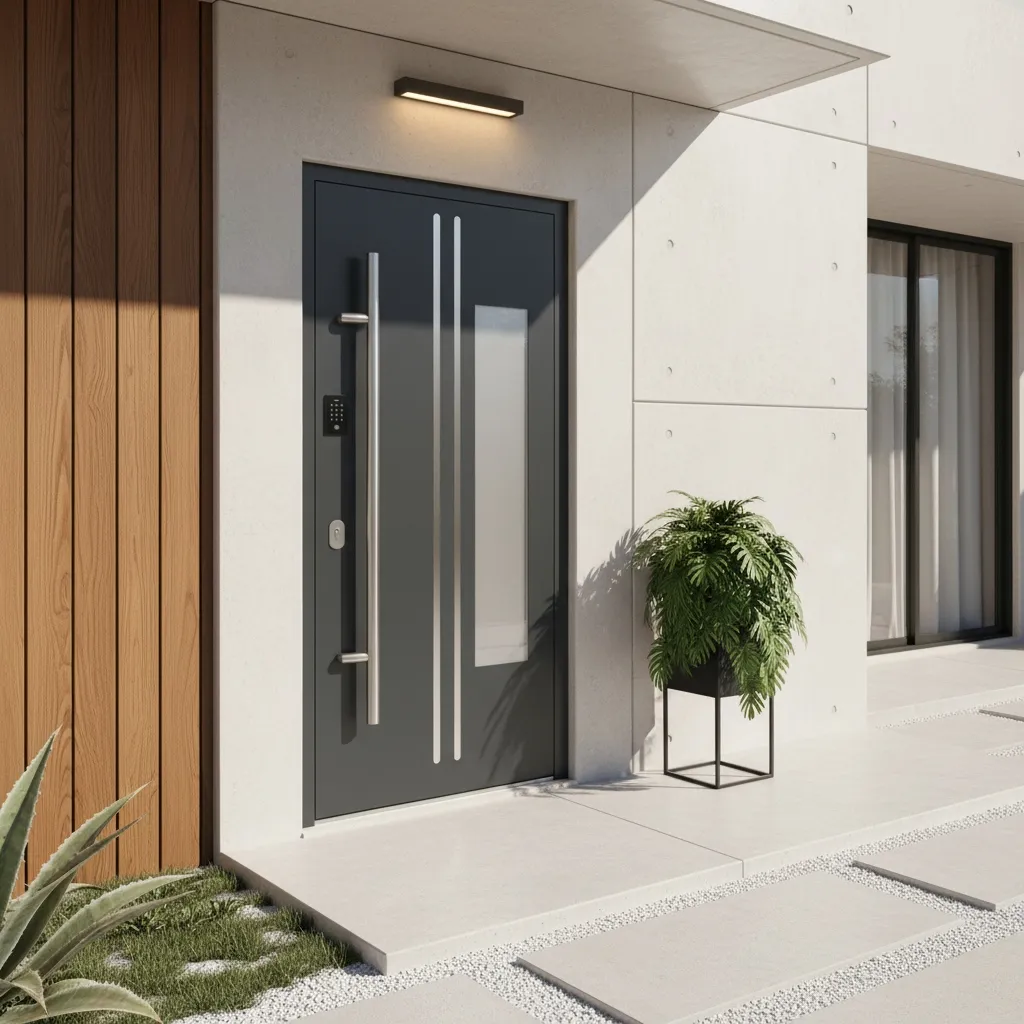
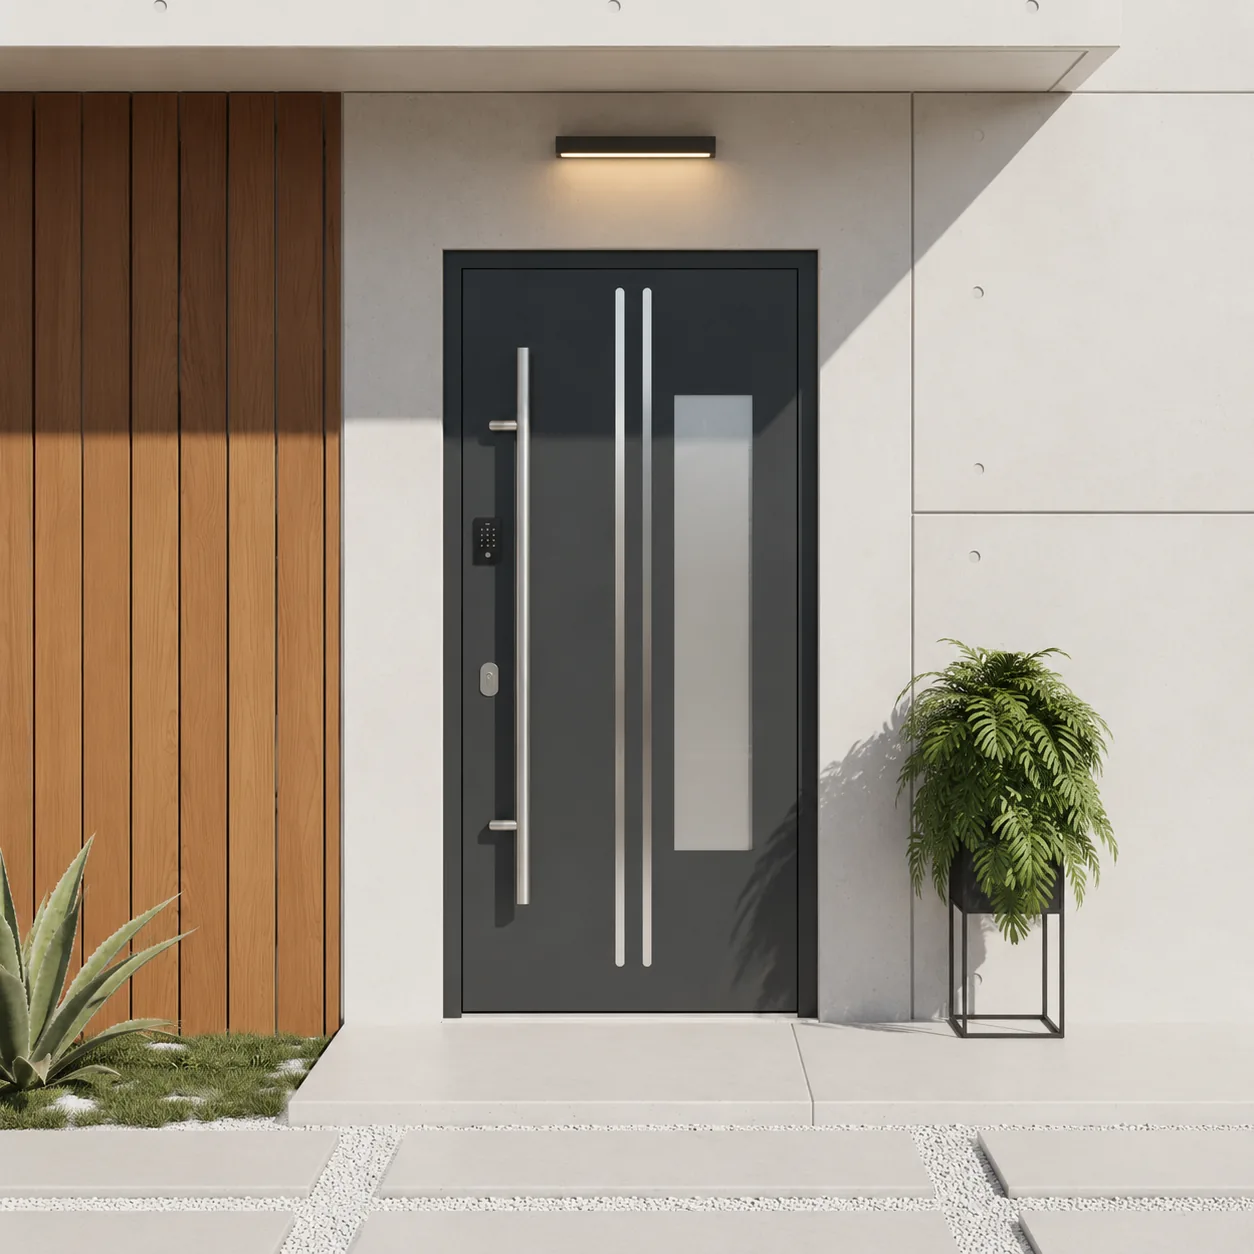
Door image swap + About mega menu in sync with about.html
1. lifestyle-modern-entry-door.webp overwritten with the new dark
   aluminum entry door reference (sconce above, vertical chrome handle,
   frosted glass strip, wood + concrete context). Carries through to
   the homepage Doors card, products.html Doors row, and the SYSTEMS
   mega menu Entry & Swing Doors feature image.

2. About mega menu image refs updated to mirror the actual
   <img src> on about.html for each anchor (the prior values were
   still the old high-rise / Woodbine shots which we already swapped
   off the page itself):
     defaultImage      Forma-1                  -> market-custom-mountain-home
     Our Vision        Forma-1                  -> lifestyle-curtain-wall-interior
     Our Foundation    Woodbine-Casino-Resort   -> market-custom-interior
     Why Crystal Ball  lifestyle-arched-window  (unchanged, already matches)

Added a code comment so this is kept in lockstep going forward.

diff --git a/shared.js b/shared.js
@@ -814,16 +814,20 @@ function Header({ currentPage }) {
     },
     about: {
       label: 'ABOUT',
-      defaultImage: 'img/Forma-1.jpg',
+      // Images intentionally mirror the actual <img src> on about.html
+      // for each section anchor so the mega menu preview matches what
+      // the visitor will land on. Update these in lockstep whenever
+      // the corresponding section image changes.
+      defaultImage: 'img/market-custom-mountain-home.webp',
       defaultDesc: "How Crystal Ball bridges European manufacturing capacity with Canadian construction discipline — built on more than two decades of envelope, curtain wall, and Passive House experience.",
       categories: [
         {
           title: 'About',
           titleHref: 'about.html',
           items: [
-            { name: 'Our Vision', href: 'about.html#vision', image: 'img/Forma-1.jpg', desc: 'Closing the gap between European engineering and Canadian execution.' },
-            { name: 'Our Foundation', href: 'about.html#foundation', image: 'img/Woodbine-Casino-Resort-Toronto-1-.jpg', desc: 'Led by construction. Informed by 20+ years of envelope and curtain wall experience.' },
-            { name: 'Why Crystal Ball', href: 'about.html#why', image: 'img/lifestyle-arched-window.webp', desc: "More than a distributor — a construction partner who reads the drawings." },
+            { name: 'Our Vision',       href: 'about.html#vision',     image: 'img/lifestyle-curtain-wall-interior.webp', desc: 'Closing the gap between European engineering and Canadian execution.' },
+            { name: 'Our Foundation',   href: 'about.html#foundation', image: 'img/market-custom-interior.webp',           desc: 'Led by construction. Informed by 20+ years of envelope and curtain wall experience.' },
+            { name: 'Why Crystal Ball', href: 'about.html#why',        image: 'img/lifestyle-arched-window.webp',          desc: "More than a distributor — a construction partner who reads the drawings." },
           ],
         },
       ],